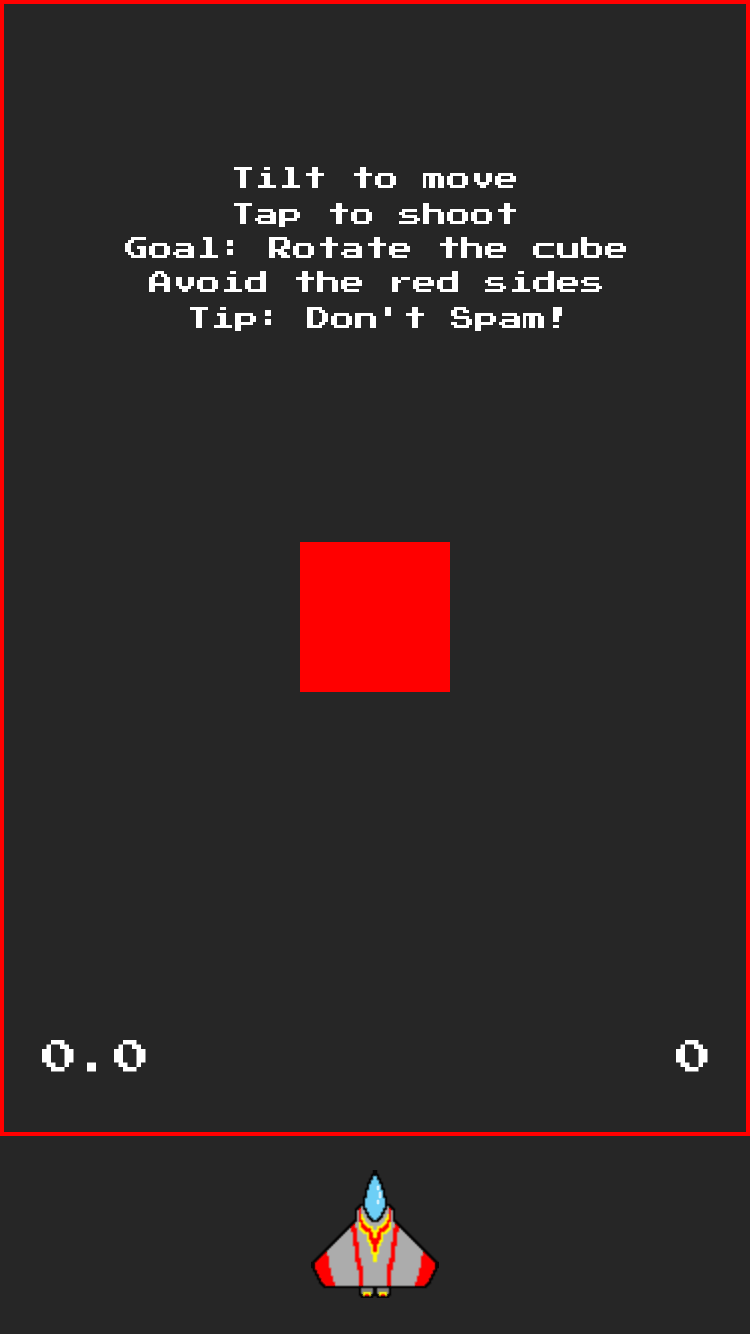
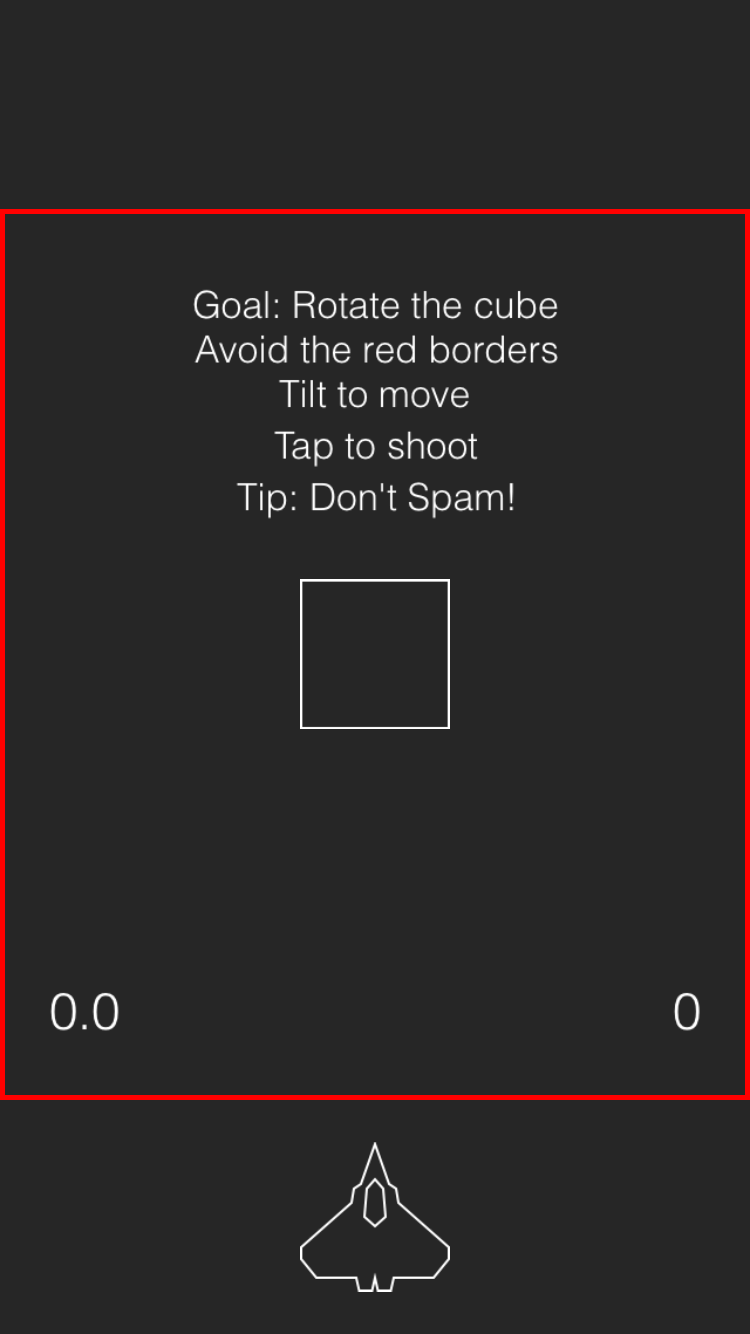
Updated Main Site for DontSpam Update and android version.

Changed region(s): [[0.0, 0.0, 1.0, 0.5532], [0.0, 0.7376, 1.0, 0.9835]]

diff --git a/On Site Files/public_html/projectSubPages/dontspam.html b/On Site Files/public_html/projectSubPages/dontspam.html
@@ -7,6 +7,7 @@
     <meta http-equiv="Content-type" content="text/html; charset=utf-8" />
     <meta name="viewport" content="width=device-width, initial-scale=1, maximum-scale=1, user-scalable=0" />
 
+    <link rel="stylesheet" href="../styles/font-awesome-4.4.0/css/font-awesome.min.css">
     <link rel="stylesheet" type="text/css" href="../styles/main.css">
 
     <link href='http://fonts.googleapis.com/css?family=Oswald:700' rel='stylesheet' type='text/css'>
@@ -42,6 +43,8 @@
 
       <p>DontSpam is addictively challenging and tests the player’s skill and patience as they resist the urge to spam projectiles into the corners of the cube in hopes of speeding up rotations. Less skilled players can opt to compete for best survival time, which requires less skill.</p>
 
+      <p>UPDATE:<br>During the next semestral school break, the game has since went through a physics change and included the must requested sensitivity slider. The game also went through a complete graphical overhaul. These changes were well received. An android port was made in Unity as well.</p>
+
       <img src="../assets/screenshots/dontspam_1.png" alt="" class="screenshot-portrait">
       <br class="sm-only-break">
       <img src="../assets/screenshots/dontspam_2.png" alt="" class="screenshot-portrait">
@@ -50,13 +53,22 @@
       <br class="sm-only-break">
 
       <br>
-      <p>You can check the game out at the iTunes App Store by clicking the download button below.</p>
+      <p>You can check the game out at the iTunes App Store and Google Play Store by clicking the buttons below.</p>
 
-      <a href="https://itunes.apple.com/us/app/dontspam/id977630760?mt=8" target="_blank">
-        <div class="button">
-          <span>Download</span>
-        </div>
-      </a>
+      <div class="downloadIcons">
+
+        <a href="https://itunes.apple.com/us/app/dontspam/id977630760?mt=8" class="downloadIcon" target="_blank">
+          <i class="fa fa-apple fa-3x fa-border"></i>
+        </a>
+
+        <a href="https://play.google.com/store/apps/details?id=com.tanxuewenrayner.DontSpam" class="downloadIcon" target="_blank">
+          <i class="fa fa-android fa-3x fa-border"></i>
+        </a>
+
+      </div>
+
+      <br>
+      <br>
 
       <a href="../index.html">
         <div class="button">

diff --git a/On Site Files/public_html/index.html b/On Site Files/public_html/index.html
@@ -50,7 +50,7 @@
         <div class="description">
           <span class="heading">DontSpam</span>
           <br>
-          iOS Game
+          iOS / Android
         </div>
 
         <img class="picture-inverse" src="assets/images/dontspam.png">
@@ -116,7 +116,7 @@
           <br>
           <span class="heading">Lemons</span>
           <br>
-          <span class="heading">PC Game</span>
+          <span class="sub-heading">PC Game</span>
           <br>
           <a href="projectSubPages/lifeslemons.html">
             <div class="button-sm">
@@ -136,7 +136,7 @@
         <div class="description-sm">
           <span class="heading">DontSpam</span>
           <br>
-          <span class="heading">iOS Game</span>
+          <span class="sub-heading">iOS / Android</span>
           <br>
           <a href="projectSubPages/dontspam.html">
             <div class="button-sm">
@@ -156,7 +156,7 @@
         <div class="description-sm">
           <span class="heading">ShapeFlip</span>
           <br>
-          <span class="heading">iOS Game</span>
+          <span class="sub-heading">iOS Game</span>
           <br>
           <a href="projectSubPages/shapeflip.html">
             <div class="button-sm">
@@ -176,7 +176,7 @@
         <div class="description-sm">
           <span class="heading">envlight</span>
           <br>
-          <span class="heading">iOS Game</span>
+          <span class="sub-heading">iOS Game</span>
           <br>
           <a href="projectSubPages/envlight.html">
             <div class="button-sm">
@@ -196,7 +196,7 @@
         <div class="description-sm">
           <span class="heading">3 Towers</span>
           <br>
-          <span class="heading">iOS Game</span>
+          <span class="sub-heading">iOS Game</span>
           <br>
           <a href="projectSubPages/3towers.html">
             <div class="button-sm">

diff --git a/On Site Files/public_html/styles/main.css b/On Site Files/public_html/styles/main.css
@@ -152,6 +152,11 @@ a:link, a:visited, a:hover, a:active
   opacity: 1;
 }
 
+.description-sm > span.sub-heading
+{
+  font-size: 1.0em;
+}
+
 .container-sm
 {
   width: 680px;
